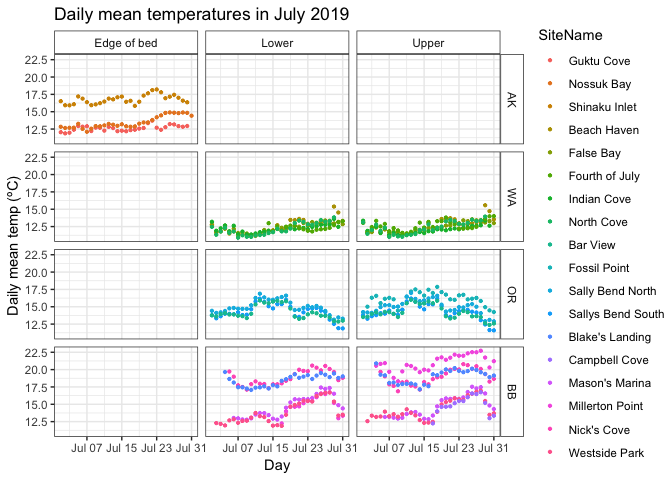
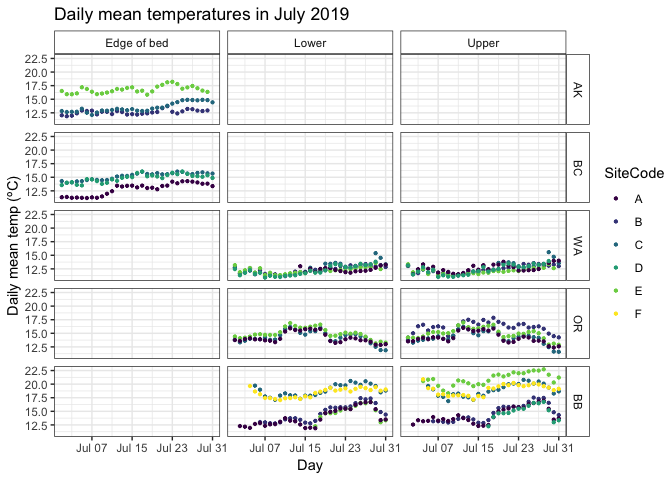
Updating plots to use new BC data

Changed region(s): [[0.0312, 0.0625, 1.0, 1.0], [0.125, 0.0625, 0.25, 0.125]]

diff --git a/TempVariationwithAK.md b/TempVariationwithAK.md
@@ -1,7 +1,7 @@
 TempVariationwithAK
 ================
 LRA
-1/2/2020
+1/24/2020
 
 ## July time-series of temperature
 
